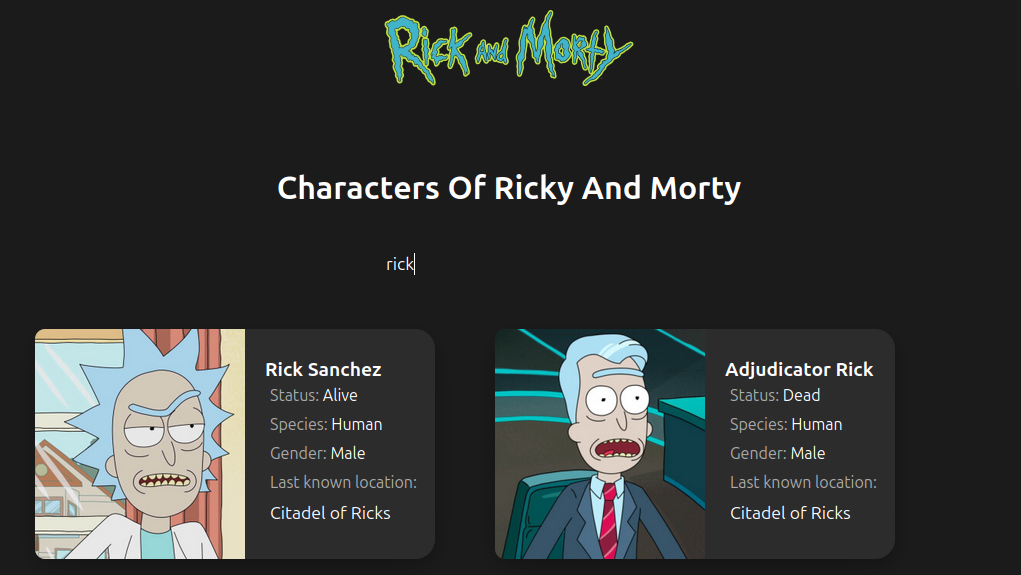
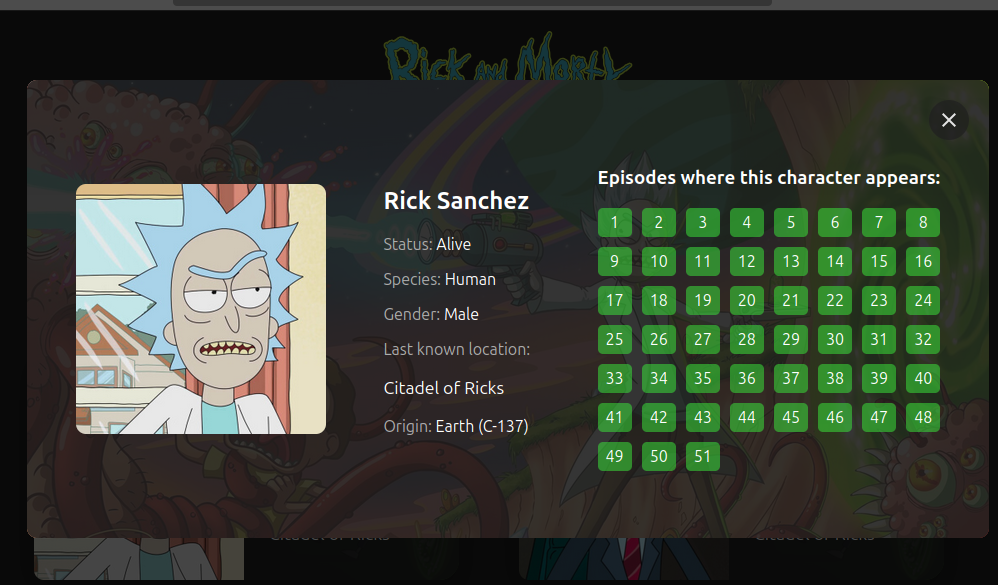
Add CharacterInfo Component and Animations

diff --git a/src/App.jsx b/src/App.jsx
@@ -1,16 +1,18 @@
 import { Character } from './Components/Character'
 import { useRef, useState } from 'react'
 import useFetch from './useFetch'
+import { CharacterInfo } from './Components/CharacterInfo'
 function App() {
   const search = useRef("")
   const [query, setQuery] = useState("")
   const url = `https://rickandmortyapi.com/api/character/?name=${query}`
   const { data, loading, error } = useFetch(url)
+  const [selectedCharacter, setSelectedCharacter] = useState(undefined)
   return (
     <>
       <header>
         <nav>
-          <img className="logo" src="/public/Rick_and_Morty.svg" alt="Ricky and morty" />
+          <img className="logo" src="/Rick_and_Morty.svg" alt="Ricky and morty" />
         </nav>
       </header>
       <h1>Characters Of Ricky And Morty</h1>
@@ -23,6 +25,19 @@ function App() {
           onChange={()=>setQuery(search.current.value)}
         />
       </div>
+      {selectedCharacter && 
+          <CharacterInfo
+          name={selectedCharacter.name}
+          status={selectedCharacter.status}
+          location={selectedCharacter.location.name}
+          species={selectedCharacter.species}
+          gender={selectedCharacter.gender}
+          imageUrl={selectedCharacter.image}
+          episodes={selectedCharacter.episode}
+          origin={selectedCharacter.origin.name}
+          onClick={() => setSelectedCharacter(undefined)}
+          />
+        }
       <div className="characters">
         <div className="message-container">
           {loading && <p className="loading-message">Loading...</p>}
@@ -37,9 +52,18 @@ function App() {
             species={character.species}
             gender={character.gender}
             imageUrl={character.image}
+            className={`character${selectedCharacter ? ' modal-open' : ''}`}
+            onClick={() => setSelectedCharacter(character)}
           />
         ))}
       </div>
+      <footer>
+        <hr />
+        <p>Made By Jansel Roa</p>
+        <p>Github: <a href="https://github.com/ninjadev23/RickAndMorty">ninjadev23</a></p>
+        <p>API: <a href="https://rickandmortyapi.com/">Rick and Morty API</a></p>
+        <p>2025</p>
+      </footer>
     </>
   )
 }

diff --git a/src/Components/CharacterInfo.css b/src/Components/CharacterInfo.css
@@ -1,0 +1,67 @@
+.character-info{
+    width:90%;
+    height: 70%;
+    display: flex;
+    flex-wrap: wrap;
+    justify-content: space-around;
+    align-items: center;
+    background: 
+        linear-gradient(rgba(30, 30, 30, 0.904), rgba(30, 30, 30, 0.897)),
+        url('/public/rickymorty1.jpg') center/cover no-repeat;
+    
+    border-radius: 10px;
+    position:fixed;
+    top: 0;
+    left: 0;
+    right: 0;
+    bottom: 0;
+    margin: auto;
+    padding:20px;
+    box-shadow: 0 0 0 100vmax rgba(0,0,0,0.7)
+}
+.character-info img{
+    height: 60%;
+    border-radius: 10px;
+    object-fit: contain;
+}
+.episodes-container {
+    display: grid;
+    grid-template-columns: repeat(auto-fit, minmax(30px, 1fr));
+    gap: 10px;
+}
+.episodes-container div{
+    background-color: #39e63985;
+    text-align: center;
+    color: #fff;
+    padding: 5px;
+    border-radius: 5px;
+}
+
+@media (max-width: 600px){
+    .character-info{
+        width: 100%;
+        top:-100px;
+        height: 100%;
+    }
+    .episodes{
+        margin:0;
+    }
+    .character-info img{
+        width: 30%;
+    }
+}
+.close-button{
+    border: none;
+    position: absolute;
+    top: 20px;
+    right: 20px;
+    background: rgba(30,30,30,0.7);
+    border: none;
+    border-radius: 50%;
+    padding: 8px;
+    cursor: pointer;
+    z-index: 10;
+    display: flex;
+    align-items: center;
+    justify-content: center;
+}

diff --git a/src/Components/CharacterInfo.jsx b/src/Components/CharacterInfo.jsx
@@ -1,0 +1,33 @@
+import "./CharacterInfo.css";
+export function CharacterInfo({ name, status, gender, imageUrl, species, location, episodes, origin, onClick }) {
+    const episodesList = []
+    episodes.map(e=>{
+      const match = e.match(/\/(\d+)$/);
+      episodesList.push(match ? match[1] : null)
+    })
+    
+    return (
+    <div className="character-info">
+      <button className="close-button" onClick={onClick}>
+        <img src="/public/close-icon.svg"/>
+      </button>
+      <img src={imageUrl} alt={name} />
+      <div className="character-data">
+        <h2>{name}</h2>
+        <p><span>Status:</span> {status}</p>
+        <p><span>Species:</span> {species}</p>
+        <p><span>Gender:</span> {gender}</p>
+        <p><span>Last known location:</span></p>
+        <p className="character-location">{location}</p>
+        <p><span>Origin:</span> {origin}</p>
+      </div>
+      <div className="episodes">
+        <h3>Episodes where this character appears: </h3>
+        <div className="episodes-container">
+          {episodesList.map((episode, index)=>(
+            <div key={index}>{episode}</div>
+          ))}
+        </div>
+      </div>
+    </div>
+)}

diff --git a/src/Components/Character.css b/src/Components/Character.css
@@ -6,12 +6,15 @@
 }
 .character{
   margin: 30px;
-  width: 400px;
+  width: 425px;
   height: 230px;
   display: flex;
   align-items: center;
   border-radius: 20px;
-  background-color: #2c2c2c;
+  background: 
+        linear-gradient(rgba(30,30,30,0.92), rgba(30,30,30,0.92)),
+        url('/public/rickyymorty2.jpg') center/cover no-repeat;
+    
    box-shadow: 0 8px 24px 0 rgba(0,0,0,0.3);
 }
 .character div{
@@ -31,16 +34,16 @@
   border-radius:10px 0px 0px 10px;
   object-fit: cover;
 }
-.character span{
-  color:#adadad
-}
-.character-location{
-  font-size: 1.1rem;
-}
+
 .character:hover{
     cursor: pointer;
-    scale: 0.9;
+    transform: perspective(1000px) rotateY(15deg);   
+    transition: transform 0.3s ease-in-out;
 }
 .character-data{
     padding-right: 10px;
+}
+
+.character-location{
+  font-size: 1.1rem;
 }

diff --git a/src/Components/Character.jsx b/src/Components/Character.jsx
@@ -1,8 +1,8 @@
 import "./Character.css"
-export function Character({name, status, gender, imageUrl, species, location}){
+export function Character({name, status, gender, imageUrl, species, location, onClick, className}) {
     return (
-        <div className="character">
-            <img src={imageUrl} alt={name} />
+        <div onClick={onClick} className={className}>
+            <img src={imageUrl} alt={name}/>
             <div className="character-data">
                 <h2>{name}</h2>
                 <p><span>Status:</span> {status}</p>

diff --git a/src/index.css b/src/index.css
@@ -46,3 +46,26 @@ h1{
   font-size: 1.2rem;
   justify-content: center;
 }
+span{
+  color:#adadad
+}
+.modal-open:hover {
+  pointer-events: none;
+  transform: none;
+  cursor: default;
+  transition: none;
+  filter: grayscale(0.7) blur(1px); /* Opcional */
+}
+footer{
+  text-align: center;
+}
+footer a{
+  color: #39e639;
+  text-decoration: none;
+}
+footer{
+  background: 
+        linear-gradient(rgba(30,30,30,0.92), rgba(30,30,30,0.92)),
+        url('/public/rickyymorty2.jpg') center/cover no-repeat;;
+  margin-bottom: -20px;  
+}

diff --git a/index.html b/index.html
@@ -4,7 +4,7 @@
     <meta charset="UTF-8" />
     <link rel="icon" type="image/svg+xml" href="/public/Rick_and_Morty.svg" />
     <meta name="viewport" content="width=device-width, initial-scale=1.0" />
-    <title>Ricky Adn Morty</title>
+    <title>Ricky And Morty</title>
   </head>
   <body>
     <div id="root"></div>

diff --git a/README.md b/README.md
@@ -1,5 +1,8 @@
 # Rick And Morty With React
 A simple website built with React that consumes the https://rickandmortyapi.com/ API, with the purpose of reinforcing React knowledge, such as hooks, components and data fetching.
+
+![alt text](/public/Rick_and_Morty.svg)
+![alt text](image-1.png)
 ![alt text](image.png)
 ### Run
 ```
